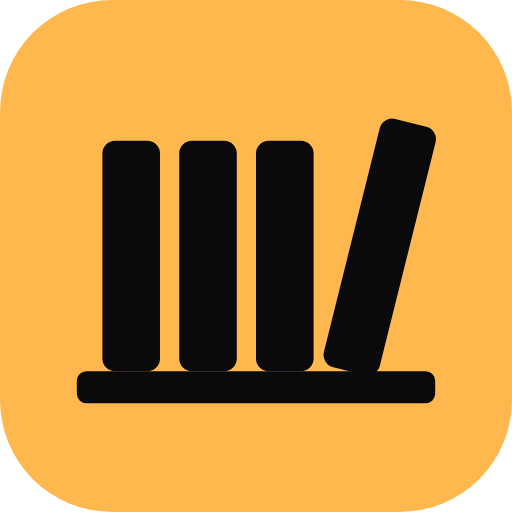
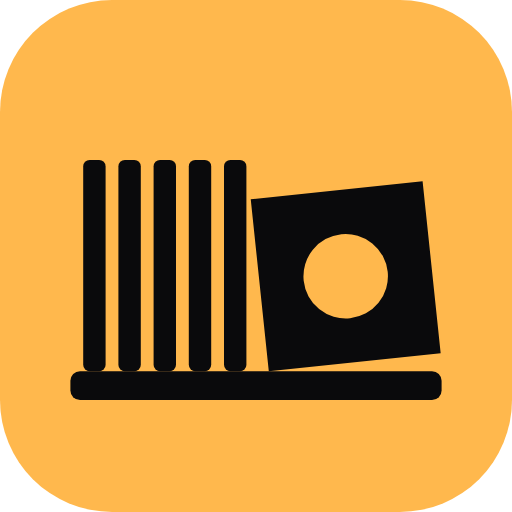
Back to Platebunken, and a mark that reads as records
THE NAME reverts. Platebaren was tried and changed back: the shop in Tromsø
stays the inspiration rather than the name.

That also retires the caveat the last commit had to carry. Platebaren is a real
business, and under that name the first question anyone opening this repo would
ask is whether it is theirs. Under this one there is no question to ask.

THE MARK read as a shelf of books, and it was right to say so. A sleeve edge
drawn nine units wide on a sixty-four box IS a book spine; real vinyl is nearer
a tenth of that.

So the edges are 3.5 units and there are five of them — and because thin lines
alone say nothing about what they are, the pulled-out sleeve now carries the
signal: it is turned to face you, a square with the record knocked out of it.
That is both what flipping through a crate actually shows you and what this
product is, cover art chosen by looking.

It pivots on its bottom-left corner so that corner stays planted on the shelf.
Pivoting on its centre sank the far corner into the shelf bar and the two fused
into a wedge.

The trade is real and is written down rather than glossed: thin edges merge
below about 24px. What survives at 16 is the silhouette — a block of lines,
then a square with a hole. The hole closes before the square does, which is the
right way round.

favicon.svg and logo.svg are now generated from mark.svg rather than carrying
their own copy of the geometry, so the next revision cannot leave three drawings
[…]

diff --git a/prototypes/crate/index.html b/prototypes/crate/index.html
@@ -3,7 +3,7 @@
   <head>
     <meta charset="utf-8" />
     <meta name="viewport" content="width=device-width, initial-scale=1, maximum-scale=1, user-scalable=no" />
-    <title>Platebaren — crate prototype</title>
+    <title>Platebunken — crate prototype</title>
     <link rel="preconnect" href="https://fonts.googleapis.com" />
     <link rel="preconnect" href="https://fonts.gstatic.com" crossorigin />
     <link href="https://fonts.googleapis.com/css2?family=Archivo:wght@400;600;800&display=swap" rel="stylesheet" />

diff --git a/src/store/db.ts b/src/store/db.ts
@@ -8,7 +8,7 @@ import { mkdirSync } from "node:fs";
 import { dirname } from "node:path";
 import { MIGRATIONS } from "./schema.ts";
 
-export const DEFAULT_DB_PATH = "./data/platebaren.sqlite";
+export const DEFAULT_DB_PATH = "./data/platebunken.sqlite";
 
 /**
  * Open the store and bring it up to the current schema. Safe to call repeatedly.

diff --git a/PRODUCT.md b/PRODUCT.md
@@ -92,22 +92,26 @@ argues for touch at this age, the parent wants mouse as a deliberate skill.
 
 ## Brand Commitments
 
-Name: **Platebaren** — Norwegian, "the record bar". Earlier names: `metalkid`, retired for being
-genre-specific and age-limited, then `Platebunken` ("the record stack"), retired in favour of this.
+Name: **Platebunken** — Norwegian, "the record stack". Earlier working name `metalkid`, retired for
+being genre-specific and age-limited. It was briefly renamed **Platebaren** after the record shop
+in Tromsø (Platebaren Feedback), the parent's own touchstone for what browsing records feels like,
+and then changed back. That is the settled answer: the shop stays the inspiration, not the name.
 
-The reference is **Platebaren (Platebaren Feedback), a record shop in Tromsø** — the parent's own
-touchstone for what browsing records feels like. Worth stating plainly, because it is a real
-business and this repo may be made public: the name is borrowed, not licensed. For a private
-appliance in one house that is nobody's problem; if this ever ships to anyone else, or the repo
-goes public under this name, it is the first thing to revisit.
+Keeping the distance is worth something beyond taste. Platebaren is a real business and this repo
+may be made public — under that name the first question anyone would ask is whether it is theirs.
+Under this one there is no question to ask.
 
-**The mark** (`brand/`) is the crate itself: sleeves packed on a shelf with one pulled out and
-tipped forward mid-flip. It is a pun and a description at once — *baren* is the bar, and these are
-bars — and the tipped sleeve is the flip the whole product imitates. Monochrome, `currentColor`,
-so it takes whatever theme it lands in.
+**The mark** (`brand/`) is the crate: sleeve edges packed on a shelf, and one pulled out and turned
+to face you — a square with the record knocked out of it. That is both what flipping through a
+crate actually shows you and what this product is, cover art chosen by looking. Monochrome,
+`currentColor`, so it takes whatever theme it lands in.
 
-It was drawn after looking at the Feedback podcast's artwork, which is what the shop's own logo
-could not be found. What was taken from it is direction — a record-shop mark is monochrome, bold,
+The first draft drew five fat bars and read as a shelf of books, which is what a sleeve edge nine
+units wide on a sixty-four box actually is. Real vinyl is nearer a tenth of that, so the edges are
+thin and the faced sleeve carries the signal instead.
+
+The shop's own logo could not be found, so the drawing was made after looking at the Feedback
+podcast's artwork. What was taken from it is direction — a record-shop mark is monochrome, bold,
 and survives being small — and nothing else. A near-copy of someone else's mark is not a brand.
 
 **The logo never appears in the child's interface.** There is no splash, no boot screen and no

diff --git a/docs/ARCHITECTURE.md b/docs/ARCHITECTURE.md
@@ -1,10 +1,10 @@
-# Platebaren — design
+# Platebunken — design
 
 > A record crate for a pre-reader. Browse album covers, put one on, hear it in your own room.
 
-Name: **Platebaren** (Norwegian, *the record bar*), after the record shop in Tromsø. Earlier
-names: `metalkid`, then `Platebunken`. The mark and the naming note are in `brand/` and
-PRODUCT.md.
+Name: **Platebunken** (Norwegian, *the record stack*). Earlier working name `metalkid`; briefly
+`Platebaren`, after the record shop in Tromsø, and changed back. The mark and the naming note are
+in `brand/` and PRODUCT.md.
 
 **Privacy rule, absolute:** no child's name, no real room labels, no Home Assistant entity IDs,
 no tokens, no IPs anywhere in this repository. Everything environment-specific lives in `.env`
@@ -55,7 +55,7 @@ computer. It does four things and refuses the fifth.
 │    ├── Sonos (S2) provider      → KID_ROOM Play:1 + others   │
 │    └── local player provider    → the laptop (see §7)        │
 │                                                              │
-│  platebaren-server     Node/TS, small                       │
+│  platebunken-server     Node/TS, small                       │
 │    ├── SQLite           the crate: approvals, counts, shelves│
 │    ├── MA client        WebSocket, persistent                │
 │    ├── curation worker  suggestions → review queue           │
@@ -65,7 +65,7 @@ computer. It does four things and refuses the fifth.
                               │ ws + http
 ┌───────────────────── old laptop, KID_ROOM ───────────────────┐
 │  Debian minimal → greetd → cage → Chromium --kiosk           │
-│    └── platebaren-ui    vanilla TS + Vite, no state         │
+│    └── platebunken-ui    vanilla TS + Vite, no state         │
 │  Audio out → Klipsch R-14PM (wired)                          │
 └──────────────────────────────────────────────────────────────┘
 ```

diff --git a/brand/README.md b/brand/README.md
@@ -1,10 +1,17 @@
 # Brand
 
-The mark is **the crate**: sleeves packed on a shelf, one pulled out and tipped forward mid-flip.
-A pun and a description at once — *baren* is the bar, and these are bars — and the tipped sleeve
-is the flip the whole product imitates. It is also what stops the mark reading as a bar chart.
+The mark is **the crate**: sleeve edges packed on a shelf, and one pulled out and turned to face
+you — a square with the record knocked out of it. That is both what flipping through a crate
+actually shows you and what this product is: cover art, chosen by looking.
 
-Three uprights rather than five, because anything finer turns to mush in a browser tab.
+The first draft drew five fat bars and read as a shelf of **books**, which is exactly what a
+nine-unit-wide edge on a sixty-four box is. A real sleeve seen edge-on is nearer a tenth of that,
+so the edges are 3.5 units and there are five of them, and the faced sleeve carries the signal
+that thin lines alone cannot.
+
+The trade is real and worth knowing: thin edges merge below about 24 px. What survives at 16 is
+the silhouette — a block of lines, then a square with a hole. The hole closes first and the square
+outlives it, which is the right way round.
 
 | File | Use |
 |---|---|
@@ -39,6 +46,6 @@ changes.
 
 ## Where the name comes from
 
-See PRODUCT.md, *Brand Commitments*. Short version: **Platebaren**, "the record bar", after the
-record shop in Tromsø. The name is borrowed, not licensed, which is worth revisiting before this
-repo or the product reaches anyone outside the house.
+See PRODUCT.md, *Brand Commitments*. Short version: **Platebunken**, "the record stack". It was
+briefly **Platebaren**, after the record shop in Tromsø, and changed back — the shop stays the
+inspiration rather than the name, which also means nobody has to ask whose it is.

diff --git a/README.md b/README.md
@@ -1,4 +1,4 @@
-<img src="brand/logo.svg" alt="Platebaren" height="46">
+<img src="brand/logo.svg" alt="Platebunken" height="46">
 
 A record crate for a pre-reader.
 
@@ -17,9 +17,9 @@ The crate, the now-playing screen and the approved-set store are built; the prot
 
 ```
 Home Assistant host        Music Assistant (Qobuz + NAS + Sonos)
-                           platebaren-server (SQLite, curation, admin, MQTT)
+                           platebunken-server (SQLite, curation, admin, MQTT)
         │
-old laptop in the bedroom  Chromium kiosk → platebaren-ui
+old laptop in the bedroom  Chromium kiosk → platebunken-ui
                            audio out → powered monitors
 ```
 
@@ -45,4 +45,4 @@ Assistant entity IDs, no tokens, no addresses. The child's room is `KID_ROOM` th
 
 ## Name
 
-*Platebaren* — Norwegian for "the record stack". Earlier working name: `metalkid`.
+*Platebunken* — Norwegian for "the record stack". Earlier working name: `metalkid`.
